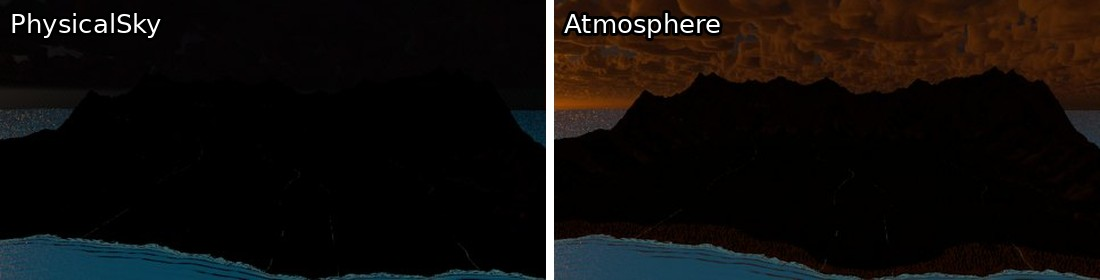
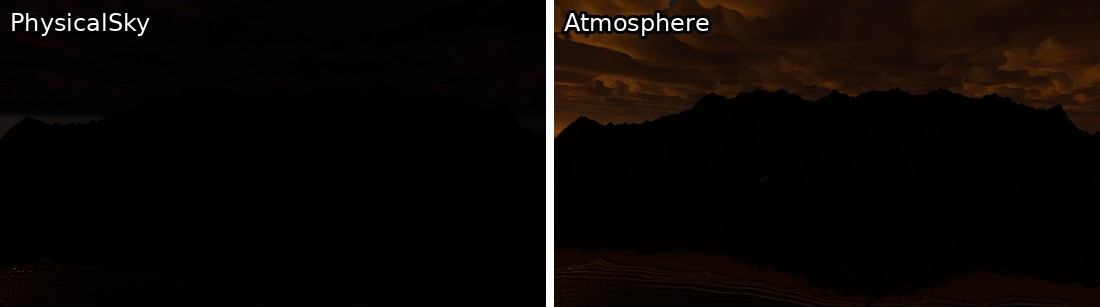
docs: restore sunset sky slider from re-shoot
Claude-Session: https://claude.ai/code/session_019a7Xd2PZ5gvYQ3NZ7og5rU

diff --git a/site/content/features/sky-and-clouds.md b/site/content/features/sky-and-clouds.md
@@ -7,6 +7,10 @@ summary: "Sun and moon set by date, time and place; a scattering atmosphere with
 - **Sun and moon clock** (`SkyClock`): date, time and place point the sun and moon lights, with moon phases (Meeus); the sun is within 0.0004 degrees of the ephemeris and sunrise within half a minute of the almanac (`docs/bench/sky --test`).
 - **Sky atmosphere** (`WeatherSkyMaterial.atmosphere_model`, `SkyClock.drive_light_energy`): multiple scattering (Hillaire 2020) lit by sun and moon, with twilight, the Earth's shadow and clouds hazed to the horizon; `atmo_far_water` hazes far sea, `energy_per_lux` scales the lights.
 
+  ![The island at sunset under the old sky and the new atmosphere](media/sky-sunset.jpg)
+
+  *Sunset: the old sky goes black; the atmosphere lights the clouds orange from below the horizon.*
+
 - **Cloud layer** (`cloud_base_height`, `cloud_thickness`, `cloud_density`): shaped from the weather map's cover, cloud type and storms; drawn by `WeatherSkyMaterial` and seen by path traced rays (`pathtracing_sky_shader_enabled`).
 
 - **Clouds that never repeat** (always on): shape noise read at two scales with an irrational ratio.
